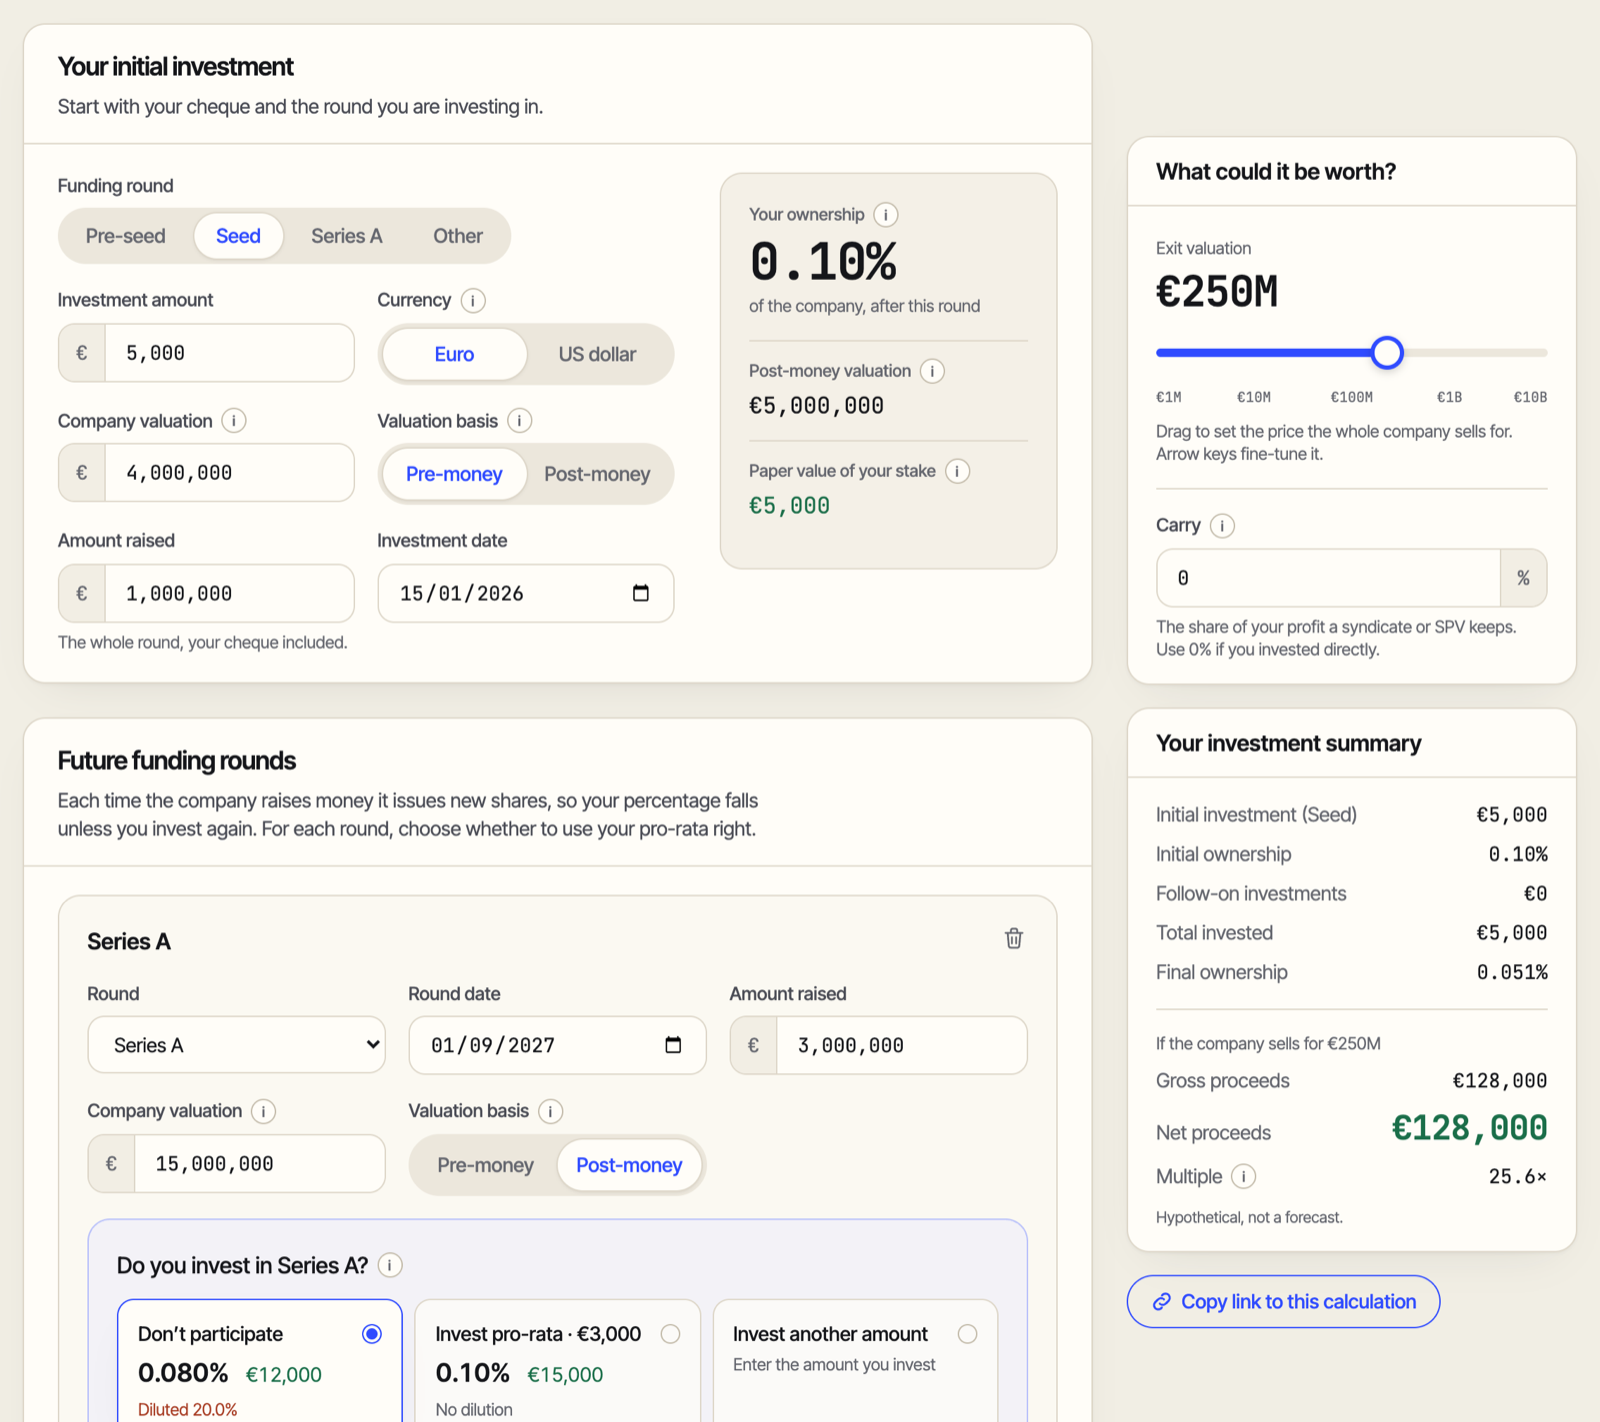
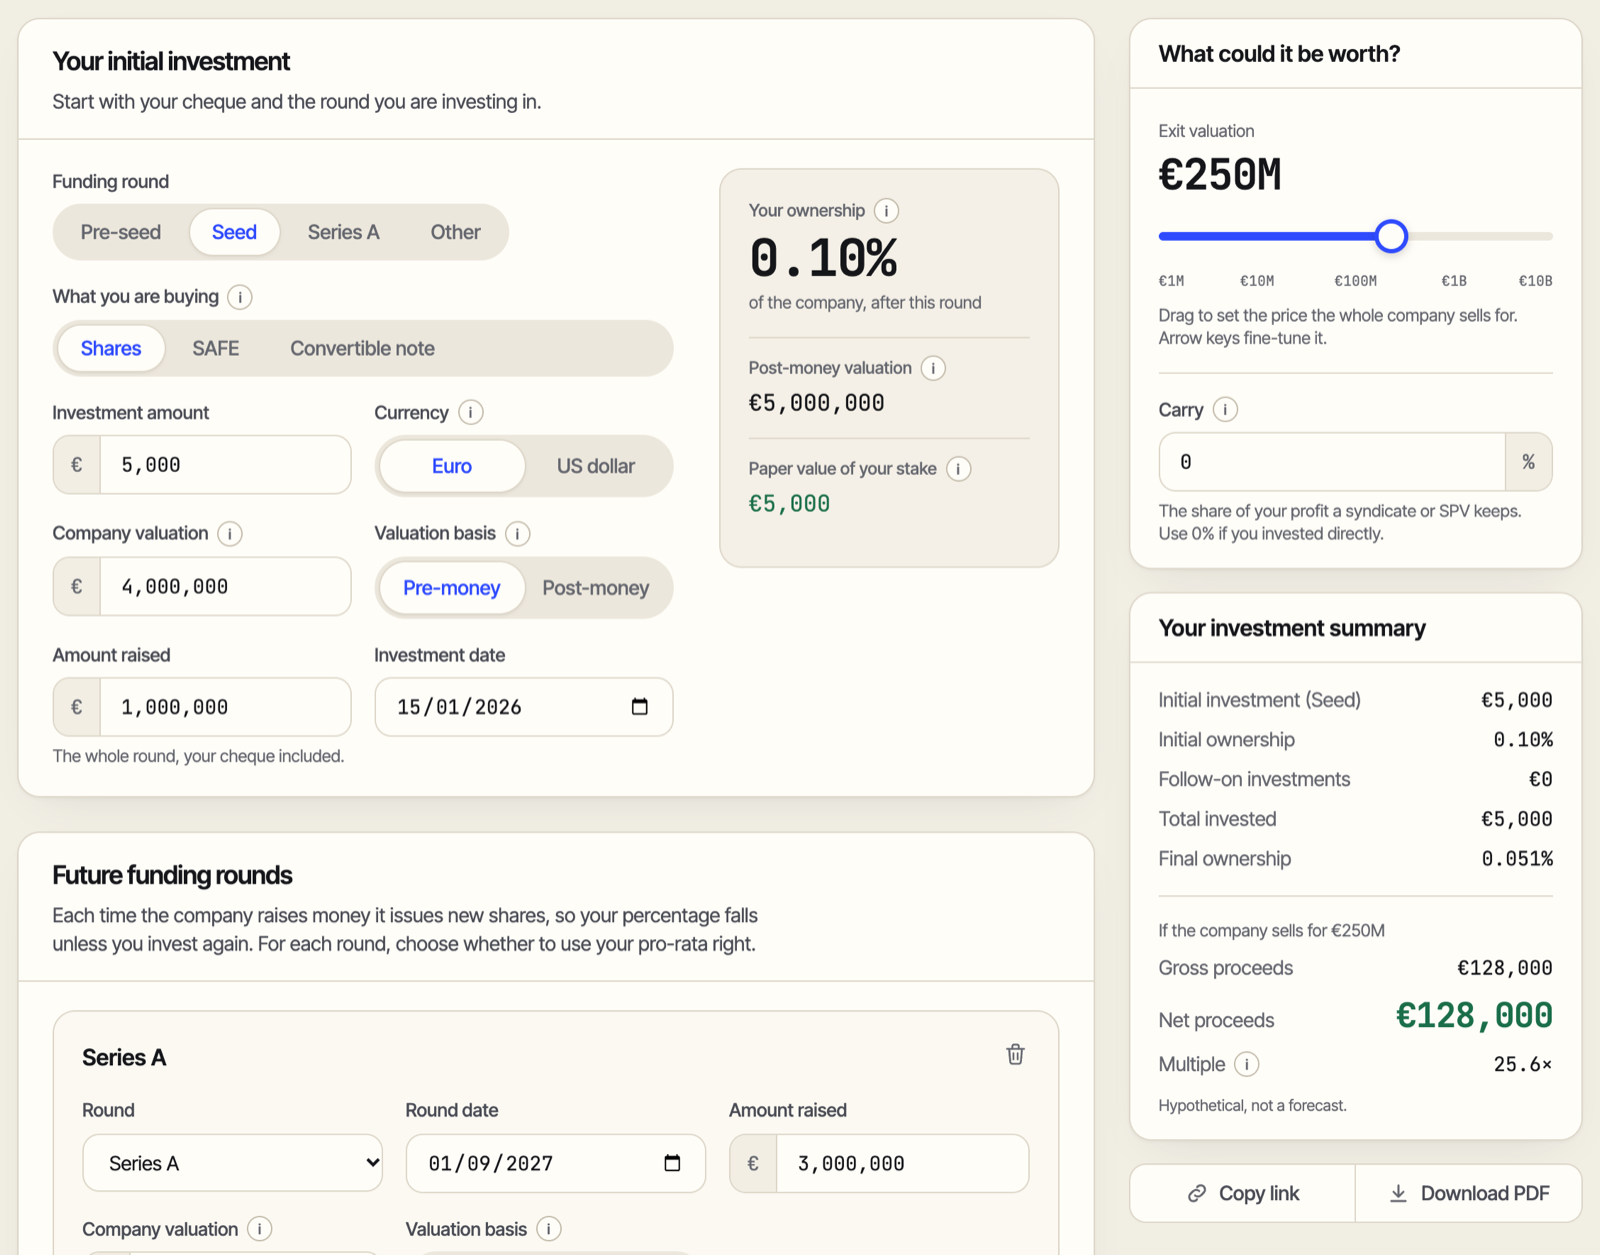
README: note maturity, deal PDF, the maths sections, new screenshots
Adds sections and feature rows for note maturity (repay, convert,
extend), the deal PDF and the two learning sections, with new
screenshots of each. The calculator and phone shots are retaken to
show the new share bar. Test and oracle counts are brought up to date
(432 tests across 34 files; 105 assertions across 23 golden cases),
and the stack table and diagram gain the on-demand PDF.

diff --git a/README.md b/README.md
@@ -26,8 +26,8 @@ A free angel investment calculator that shows what your startup stake becomes as
   <img alt="TypeScript strict" src="https://img.shields.io/badge/TypeScript-strict-3178c6?logo=typescript&logoColor=white">
   <img alt="Vite 8" src="https://img.shields.io/badge/Vite-8-646cff?logo=vite&logoColor=white">
   <img alt="Tailwind CSS 4" src="https://img.shields.io/badge/Tailwind-4-38bdf8?logo=tailwindcss&logoColor=white">
-  <img alt="Vitest: 383 tests" src="https://img.shields.io/badge/Vitest-383%20tests-6e9f18?logo=vitest&logoColor=white">
-  <img alt="Python oracle: 93 checks" src="https://img.shields.io/badge/Python%20oracle-93%20checks-3776ab?logo=python&logoColor=white">
+  <img alt="Vitest: 432 tests" src="https://img.shields.io/badge/Vitest-432%20tests-6e9f18?logo=vitest&logoColor=white">
+  <img alt="Python oracle: 105 checks" src="https://img.shields.io/badge/Python%20oracle-105%20checks-3776ab?logo=python&logoColor=white">
   <img alt="Cloudflare Workers" src="https://img.shields.io/badge/Cloudflare-Workers-f38020?logo=cloudflare&logoColor=white">
 </p>
 
@@ -46,17 +46,20 @@ Spreadsheets answer that badly, and full cap-table tools ask for numbers an ange
 | 📉 | **Dilution, round by round** | Enter your cheque and every later round. Your ownership, paper value and exit return update as you type. |
 | ➕ | **Follow on or sit out** | At each round, sit out, pay your pro-rata or pick an amount, and see all three paths drawn side by side. |
 | 📝 | **SAFEs and convertible notes** | Cap, discount and interest. The stake converts at the next priced round on whichever term gives you the most. |
+| ⏳ | **Note maturity** | A note that reaches its maturity date before the next round is repaid with interest, converts at the cap, or is extended. |
 | 🎲 | **How it could end** | The same deal if the company fails, returns its capital, or grows 10× or 100×, with the power-law arithmetic on your own numbers. |
 | 📈 | **Every possible exit** | A return curve from €1M to €1B that flags where liquidation preferences bite. |
 | 🤝 | **Syndicate costs** | Carry, management fees and entry fees come out, so the multiple shown is what reaches you. |
+| 📄 | **Deal PDF** | "Download PDF" saves the deal as a one-page A4 report, made in your browser. |
 | 🔗 | **Shareable links** | "Copy link" reopens exactly what you were looking at. The calculation lives after the `#` and never reaches a server. |
+| 🎓 | **The maths, explained** | Worked examples of equity, dilution, pro-rata and exits, and of shares against a SAFE and a note, every figure computed by the same engine. |
 | 🔒 | **Private by design** | No account, no tracking, no backend for the calculator. Nothing you type leaves your browser. |
 
 ### Follow your stake through every round
 
 Enter your cheque and the rounds that follow. At each round, choose to sit out, pay your pro-rata to hold your share, or invest a different amount. Every choice updates your ownership, the paper value of your stake, and the return at exit, as you type.
 
-![The calculator: a €5,000 seed cheque, a Series A with the follow-on choice, the exit slider and the investment summary](docs/screenshots/calculator.png)
+![The calculator: a €5,000 seed cheque, a Series A, the exit slider, the investment summary, and the Copy link and Download PDF bar](docs/screenshots/calculator.png)
 
 ### Follow on or sit out?
 
@@ -80,11 +83,33 @@ Many angel cheques buy no shares yet. Pick a SAFE or a convertible note and ente
 
 ![A €5,000 SAFE with a €5M post-money cap and a 20% discount, converting in the Series A](docs/screenshots/safe.png)
 
+### When a note reaches maturity
+
+A convertible note is a loan, so it has a date it falls due. Add a maturity date and choose what happens if no priced round has come by then: the company **repays** the loan with its interest, the note **converts** at the cap or a stated maturity valuation, or the lenders **extend** it to wait for the next round. Interest stops at maturity. A repaid note holds no shares afterwards and leaves the preference stack, the repayment counts towards your return on the day it arrives, and a round on or before the due date converts the note as usual.
+
+![A €50,000 convertible note due before its Seed round: Repaid is selected, and the panel shows €54,000 back, the €50,000 lent plus €4,000 of interest](docs/screenshots/maturity.png)
+
 ### How it could end
 
 A single exit on a slider hides the most important fact about angel investing: most companies fail and a few pay for the rest. The same deal is shown four ways: the company fails, sells for what it raised, or grows 10× or 100× from the valuation you invested at. Each row is a full run with dilution, preferences and carry, and one line of arithmetic on your own numbers says how many failed cheques like this one a single win pays back.
 
 ![Four endings for a €5,000 seed cheque: fails, returns its capital, grows 10×, grows 100× for a 51.2× multiple](docs/screenshots/endings.png)
+
+### Save the deal as a PDF
+
+"Download PDF" turns the calculation on screen into a one-page A4 report: the deal in one line, the headline figures, your terms and the summary, where a SAFE or note stands, every round and the four endings, with the disclaimer on each page. The PDF is drawn in your browser, so the numbers never leave it, and the PDF library loads only when you click.
+
+<p align="center"><img src="docs/screenshots/pdf.png" alt="A deal PDF for a $100,000 SAFE: headline tiles, terms and summary, the conversion at the cap, the round-by-round table and four endings" width="620"></p>
+
+### The maths, in plain words
+
+Below the calculator, four cards work through the ideas that decide what a cheque returns (equity, dilution, pro-rata and the exit), each with one highlighted key idea and the arithmetic step by step. Every number is computed by the same engine as the calculator, never typed into the copy.
+
+![The maths, briefly: four cards on equity, dilution, pro-rata and exit, each with a highlighted key idea and its arithmetic](docs/screenshots/learn.png)
+
+A second section puts **shares, a SAFE and a convertible note** side by side: one €25,000 cheque at a €5M valuation, invested three ways into the same Seed. Each card says why the instrument exists, highlights the result you actually get, and keeps when it works best one click away. A fourth card shows the case a SAFE protects you from, a next round priced below the cap, and a table compares all three.
+
+![Shares, SAFE or convertible note: the same €25,000 three ways, with the winning conversion route highlighted and a cheaper next round](docs/screenshots/instruments.png)
 
 ### Also
 
@@ -92,7 +117,7 @@ A single exit on a slider hides the most important fact about angel investing: m
 - **Euros or dollars**, and short shared links such as `tinypercent.com/shared#…`.
 - **Works on a phone**, with a summary bar that stays in view as you scroll.
 
-<p align="center"><img src="docs/screenshots/phone.png" alt="tinypercent on a phone: the investment summary and the Copy link button" width="320"></p>
+<p align="center"><img src="docs/screenshots/phone.png" alt="tinypercent on a phone: the investment summary, the Copy link and Download PDF bar, and the summary strip pinned to the bottom" width="320"></p>
 
 ## Examples
 
@@ -119,13 +144,14 @@ $50,000 at a $10M post-money Series A, diluted to 0.32% by two later rounds. A $
 flowchart TB
   subgraph Build["Build and deploy: GitHub Actions on every push"]
     direction LR
-    O[Python oracle<br/>two independent models] -->|golden-cases.json| G[typecheck · lint<br/>383 tests · build]
+    O[Python oracle<br/>two independent models] -->|golden-cases.json| G[typecheck · lint<br/>432 tests · build]
     G -->|green on main:<br/>wrangler deploy| CF[Cloudflare Workers<br/>static assets]
   end
   subgraph Browser["In your browser: nothing leaves it"]
     direction LR
     L[Share link] <-->|state in the<br/>URL fragment| UI[React UI]
     UI <-->|scenario in,<br/>results out| E[Pure TS engine<br/>integer cents]
+    UI -->|on click,<br/>loaded on demand| P[Deal PDF<br/>jsPDF]
   end
   Build -->|prerendered HTML + CSP headers| Browser
 ```
@@ -133,11 +159,12 @@ flowchart TB
 | Layer | Choices |
 |---|---|
 | **Frontend** | React 19, TypeScript 6 (strict), Tailwind CSS 4, built with Vite 8; self-hosted Inter Tight and JetBrains Mono |
-| **Calculation engine** | Plain TypeScript in [`src/engine`](src/engine): no React, no browser APIs, money in integer cents. Rounds, pro-rata, option pools, SAFE and note conversion, liquidation preferences, syndicate fees and IRR |
+| **Calculation engine** | Plain TypeScript in [`src/engine`](src/engine): no React, no browser APIs, money in integer cents. Rounds, pro-rata, option pools, SAFE and note conversion, note maturity, liquidation preferences, syndicate fees and IRR |
 | **Charts** | Hand-written SVG, no chart library |
+| **PDF** | jsPDF, loaded only when someone downloads a report. Built-in Helvetica, so no font is embedded and a report is about 6 KB |
 | **State and sharing** | One reducer for the whole scenario. Links compress it with the browser's `CompressionStream` into the URL fragment, so it never reaches a server |
 | **Rendering** | Every page prerendered to static HTML at build time, with sitemap and robots.txt, so content loads before any JavaScript runs |
-| **Testing** | 383 Vitest tests across 31 files (unit, property-based and render tests), plus an independent Python oracle: 93 assertions across 19 golden cases |
+| **Testing** | 432 Vitest tests across 34 files (unit, property-based and render tests), plus an independent Python oracle: 105 assertions across 23 golden cases |
 | **CI/CD** | GitHub Actions: typecheck, lint, tests, oracle drift check and build on every push; a green push to `main` deploys with Wrangler |
 | **Hosting** | Cloudflare Workers static assets at tinypercent.com, with a strict Content Security Policy and security headers on every response |
 
@@ -151,7 +178,7 @@ own_after = own_before × (P / V − t) + I / V    if you invest I
 pro_rata  = own_before × (R + t × V)            to hold your position
 ```
 
-For a single holder, that is algebraically the same as running a full cap table. To prove it, [`tools/oracle.py`](tools/oracle.py) implements the maths twice: once with this formula, and once as an independent share-count cap table that knows nothing about it. The two must agree on **93 assertions across 19 golden cases**, including every SAFE and note conversion route checked against a share ledger. The oracle writes the expected figures to a fixture that the TypeScript tests check against, and CI fails if the Python and TypeScript models ever drift apart.
+For a single holder, that is algebraically the same as running a full cap table. To prove it, [`tools/oracle.py`](tools/oracle.py) implements the maths twice: once with this formula, and once as an independent share-count cap table that knows nothing about it. The two must agree on **105 assertions across 23 golden cases**, including every SAFE and note conversion route and each note maturity outcome (repaid, converted, extended) checked against a share ledger, with its fees and rate of return. The oracle writes the expected figures to a fixture that the TypeScript tests check against, and CI fails if the Python and TypeScript models ever drift apart.
 
 ### Engineering choices worth a look
 
@@ -161,6 +188,7 @@ For a single holder, that is algebraically the same as running a full cap table.
 - **Old links keep their numbers.** Shared links are versioned: a link made before SAFEs existed opens as priced shares, which is what it computed at the time.
 - **Errors never blank the page.** Some inputs have no answer, such as an option pool larger than the round allows. [`safeRun`](src/ui/safeRun.ts) keeps the last workable result on screen and explains what is wrong instead of crashing.
 - **Shared links are untrusted input.** A link is checked field by field before use, refused if it unpacks to anything oversized, and only opened if the scenario actually runs. The link format is compressed with the browser's built-in `CompressionStream`, which makes links about half the length.
+- **The PDF is a view, not a second model.** [`report.ts`](src/ui/report/report.ts) turns the same engine run into text with the page's own formatters, and [`pdf.ts`](src/ui/report/pdf.ts) only lays it out, so the report can never disagree with the screen.
 - **Locked-down delivery.** A strict Content Security Policy and security headers on every response.
 
 ## Run it yourself
